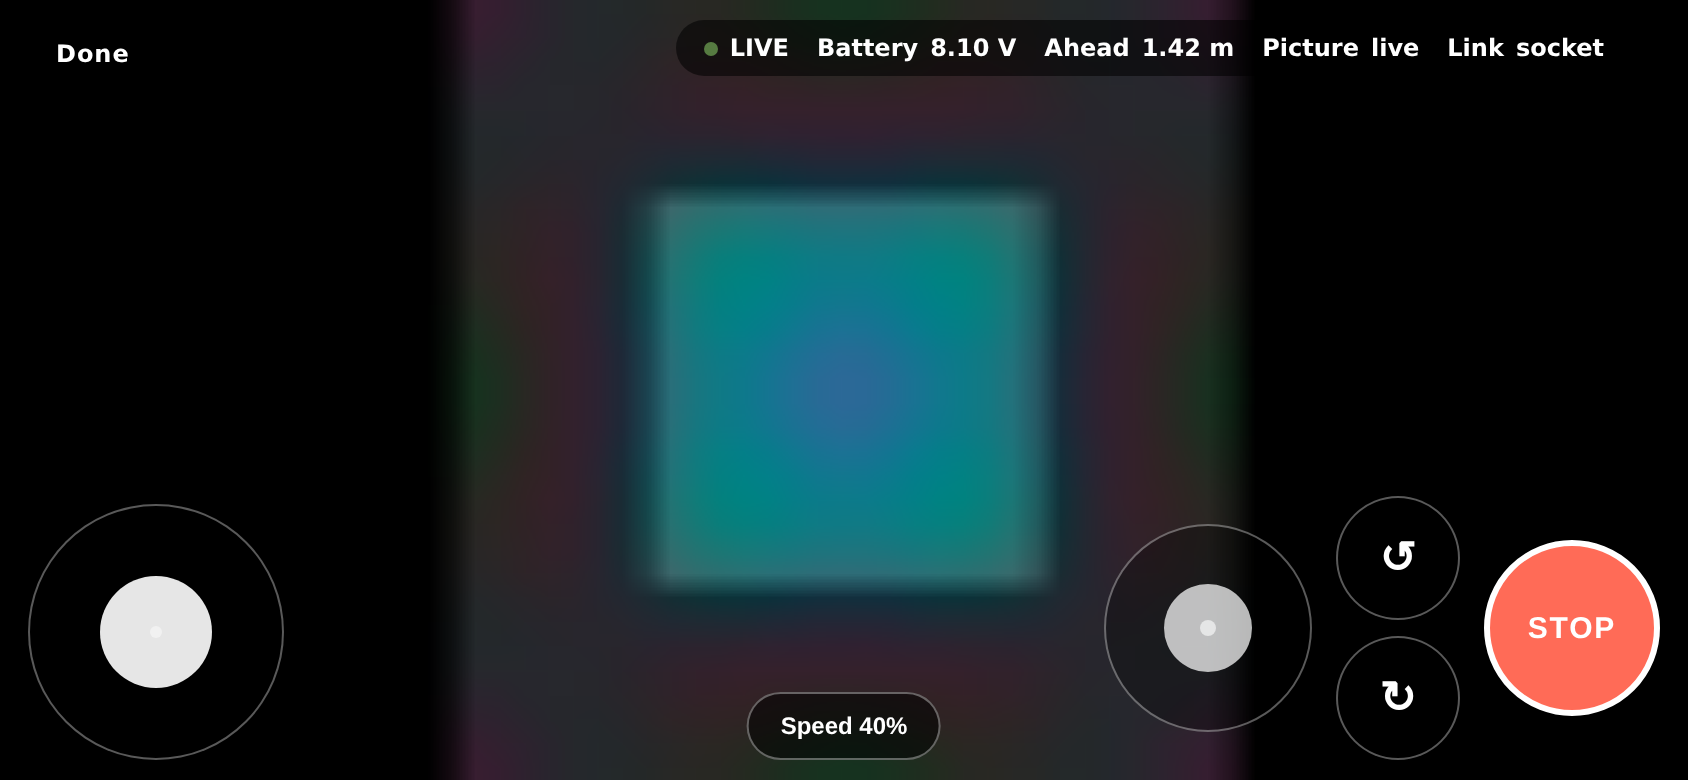
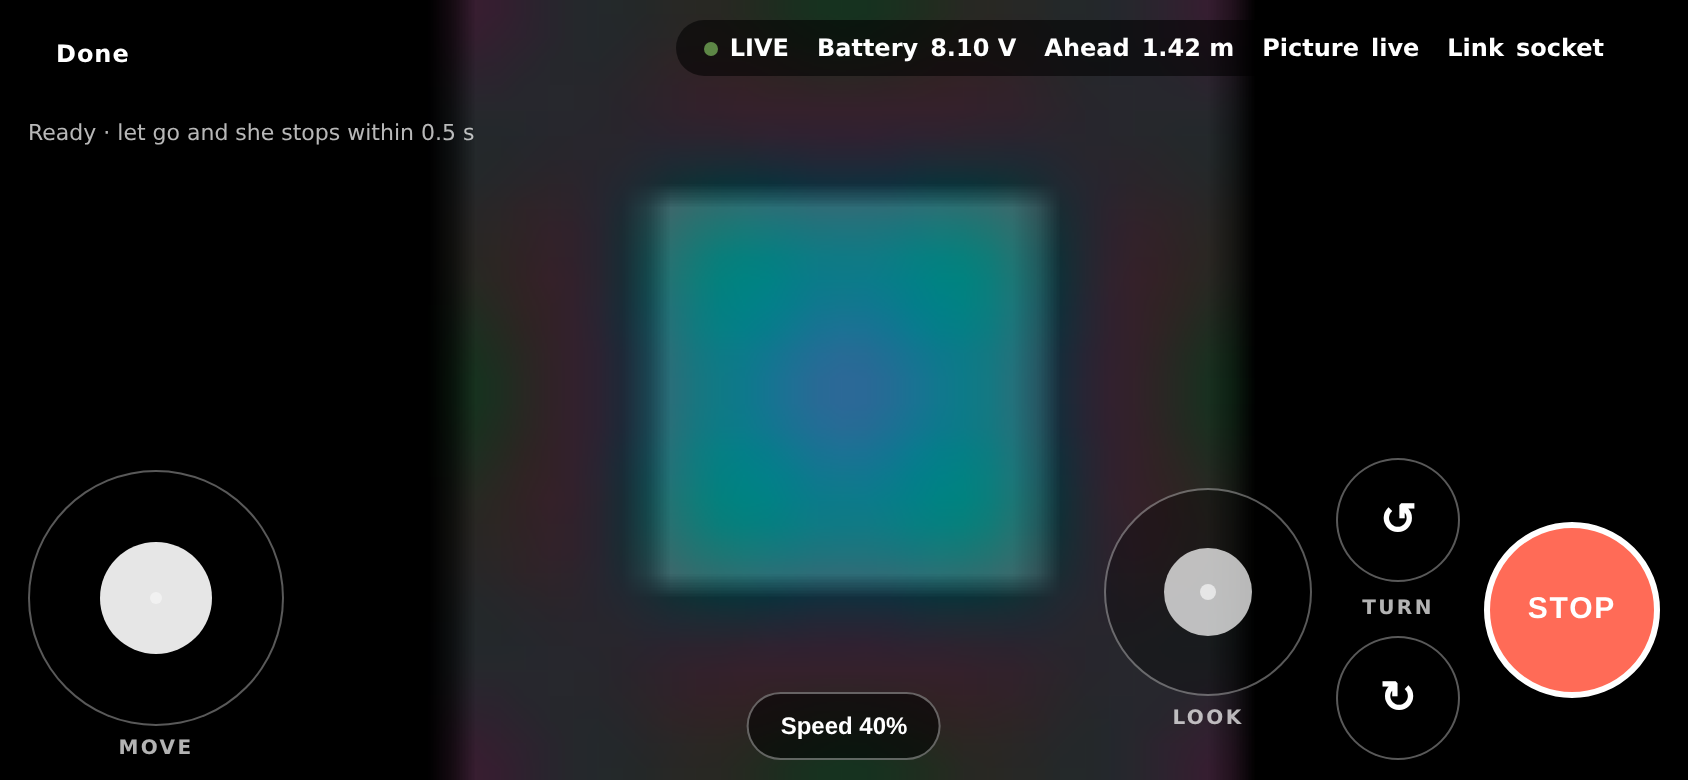
Drive mode says what its controls are, once, and what is true when nothing is wrong
Nothing on the drive page explained itself. That the right stick stays
where it is put and double-tap levels it, that the round buttons are the
turn, that Escape stops -- all of it lived in aria-labels and source
comments, which is to say nowhere a second driver would look. And the
HUD line was blank until something failed, so "all good" and "not
connected yet" were the same empty space.

**A legend, the first time.** Four sentences over the controls, dismissed
by a tap anywhere, remembered in localStorage the way the theme is and
with the same rule: storage that throws is never a broken page. It errs
towards showing -- a legend that shows again is a nuisance, a driver who
never saw it is the problem. The Robot tab has the way back to it
(?legend=1). It sits inside `.drive`, so portrait never shows it, and
under the stop alarm's z-index, so it can never cover a STOP.

**A word under each control.** MOVE, LOOK, TURN, ten-pixel caps, quiet.
Chris asked for the second stick twice; the labels are how the second
person knows which thumb does what.

**The resting line.** "Ready · let go and she stops within 0.5 s". The
number is DRIVE_TTL_MS, rendered by the server as a fact to state and
never sent back: test_the_browser_never_chooses_the_ttl still holds. A
problem sentence replaces it rather than joining it, so the line is
always the one thing worth reading.

Also fixed on the way: the audit server's stub robot had `look()` where
[…]

diff --git a/src/kona_tracker/web/templates/drive.html b/src/kona_tracker/web/templates/drive.html
@@ -25,7 +25,21 @@
           aria-label="Stop {{ robot_name }} now">STOP</button>
 </div>
 
-<div class="drive" id="drive" data-interval="{{ drive_interval_ms }}">
+<div class="drive" id="drive" data-interval="{{ drive_interval_ms }}" data-ttl="{{ drive_ttl_ms }}">
+  {# The first time drive mode opens, and never again unless asked (the Robot
+     tab has a link): four sentences a second driver needs and could not
+     otherwise learn short of reading aria-labels. Tapping anywhere on it
+     starts driving; it is inside `.drive` so portrait never shows it, and
+     under the stop alarm's z-index so it can never cover a STOP. #}
+  <div class="drive-legend" id="legend" hidden role="dialog" aria-label="How to drive {{ robot_name }}">
+    <div class="drive-legend-card">
+      <p><b>Left stick</b> moves her. Let go and she stops.</p>
+      <p><b>Right stick</b> aims the camera and stays where you point it. Double-tap it to level.</p>
+      <p><b>The two round buttons</b> turn her on the spot.</p>
+      <p><b>STOP</b> is STOP. On a keyboard, Escape is too.</p>
+      <p class="drive-legend-go">Tap anywhere to start</p>
+    </div>
+  </div>
   {# poll.js owns the picture and needs these four ids; the caption doubles
      as the camera's own line in the telemetry strip. #}
   <figure class="cam">
@@ -60,8 +74,11 @@
     <div class="drive-pads">
       {# Holonomic: this robot strafes. Sideways on the stick is a genuine
          sideways move, not a turn -- turning is the two buttons. #}
-      <div class="stick" id="stick" role="application" aria-label="Drive {{ robot_name }}: push to move, let go to stop">
-        <div class="knob" id="knob"></div>
+      <div class="pad">
+        <div class="stick" id="stick" role="application" aria-label="Drive {{ robot_name }}: push to move, let go to stop">
+          <div class="knob" id="knob"></div>
+        </div>
+        <span class="pad-label" aria-hidden="true">Move</span>
       </div>
       <div class="drive-right">
         {# The second stick, which is what Chris asked for twice: left thumb
@@ -77,12 +94,16 @@
            stick's sideways axis is a genuine strafe, so there is no spare
            axis for turning, and a button press is unambiguous where a stick
            corner is not. #}
-        <div class="stick look" id="look" role="application"
-             aria-label="Look around: drag to aim the camera, double-tap to level it">
-          <div class="knob" id="look-knob"></div>
+        <div class="pad">
+          <div class="stick look" id="look" role="application"
+               aria-label="Look around: drag to aim the camera, double-tap to level it">
+            <div class="knob" id="look-knob"></div>
+          </div>
+          <span class="pad-label" aria-hidden="true">Look</span>
         </div>
         <div class="drive-spins">
           <button class="spin" id="rot-left" type="button" aria-label="Rotate left">↺</button>
+          <span class="pad-label" aria-hidden="true">Turn</span>
           <button class="spin" id="rot-right" type="button" aria-label="Rotate right">↻</button>
         </div>
         <button class="estop" id="estop" type="button" aria-label="Stop the robot now">STOP</button>

diff --git a/src/kona_tracker/web/static/drive.js b/src/kona_tracker/web/static/drive.js
@@ -36,6 +36,12 @@
   var volts = document.getElementById('volts'), sonar = document.getElementById('sonar');
   var picture = document.getElementById('picture');
   var wireLabel = document.getElementById('wire');
+  var legend = document.getElementById('legend');
+
+  // The watchdog window, stated on the HUD as a fact about the robot and
+  // never sent back to it: this page does not choose its own dead-man
+  // switch. Both numbers come from robot/gateway.py through the template.
+  var TTL = parseInt(root.dataset.ttl, 10) || 0;
 
   // The send interval comes from the server so it cannot drift away from
   // the TTL it has to stay under. Both live in robot/gateway.py.
@@ -618,9 +624,18 @@
     if (data.sonar_usable === false) {
       words.push('The robot cannot read its distance sensor, so the obstacle guard is off.');
     }
-    note.textContent = words.join(' ');
-    note.hidden = words.length === 0;
-    note.className = 'drive-note';
+    if (words.length) {
+      note.textContent = words.join(' ');
+      note.className = 'drive-note';
+    } else {
+      // Nothing wrong is worth a line too. Before this the HUD was blank
+      // until something failed, so a second driver had no way to tell "all
+      // good" from "not connected yet". The one fact worth stating is the
+      // dead-man window, because it is the thing that makes letting go safe.
+      note.textContent = 'Ready' + (TTL ? ' \u00b7 let go and she stops within ' + (TTL / 1000) + ' s' : '');
+      note.className = 'drive-note calm';
+    }
+    note.hidden = false;
 
     allow(!data.low_battery && !data.demo, 'refused');
   }
@@ -676,6 +691,32 @@
       lost('No answer from the robot for a few seconds.');
     }
   }, SILENT_MS);
+
+  // -- the first-drive legend --------------------------------------------
+  // Shown the first time this page opens on a phone, and never again unless
+  // the Robot tab's "Show me the controls again" link asks (?legend=1). The
+  // choice lives in localStorage like the theme does, with the same rule:
+  // storage that throws (private browsing, blocked site data) is never worth
+  // a broken page, and on the side of saying too much -- a legend that shows
+  // again is a nuisance, a driver who never saw it is the problem.
+  var SEEN = 'kona-drive-seen';
+  function legendSeen() {
+    try { return window.localStorage.getItem(SEEN) === '1'; } catch (e) { return false; }
+  }
+  function legendDismissed() {
+    try { window.localStorage.setItem(SEEN, '1'); } catch (e) { /* lasts until the page closes */ }
+  }
+  function askedForLegend() {
+    var search = (window.location && window.location.search) || '';
+    return /(^\?|&)legend=1(&|$)/.test(search);
+  }
+  if (legend) {
+    if (askedForLegend() || !legendSeen()) { legend.hidden = false; }
+    legend.addEventListener('click', function () {
+      legend.hidden = true;
+      legendDismissed();
+    });
+  }
 
   // Opened last, once everything it can call into exists. Failing to open
   // costs nothing: every command falls back to the HTTP path above.

diff --git a/src/kona_tracker/web/static/app.css b/src/kona_tracker/web/static/app.css
@@ -792,6 +792,7 @@ body.activity-page { overscroll-behavior-y: contain; }
 .robot-page .drive-link { display: flex; align-items: center; justify-content: space-between;
   gap: 12px; margin: 18px 0 0; padding: 16px; border: 1px solid var(--line); border-radius: 18px;
   background: var(--bg2); color: var(--ink); text-decoration: none; font-weight: 600; }
+.robot-page .drive-again { display: inline-block; min-height: 44px; padding: 12px 0 0; font-size: 13px; color: var(--ink2); }
 .robot-page .drive-link small { display: block; margin-top: 3px; color: var(--ink2);
   font-size: 12px; font-weight: 400; }
 
@@ -847,6 +848,26 @@ body.activity-page { overscroll-behavior-y: contain; }
 .drive-note { margin: 8px 0 0; padding: 7px 12px; border-radius: 12px; max-width: 46ch;
   background: rgba(0,0,0,.55); color: #F0D9A8; font-size: 11px; line-height: 1.4; }
 .drive-note.gone { color: #FFB3A3; }
+/* The resting line: what is true when nothing is wrong. Quieter than a
+   problem sentence, which replaces it. */
+.drive-note.calm { color: rgba(255,255,255,.72); background: transparent; padding-left: 0; }
+/* The first-drive legend. Under the stop alarm (z-index 30): it must never
+   sit on top of a STOP. Tapping anywhere on it dismisses it. */
+.drive-legend[hidden] { display: none; }
+.drive-legend { position: fixed; inset: 0; z-index: 20; display: grid; place-content: center;
+                padding: 16px; background: rgba(0,0,0,.55); }
+.drive-legend-card { max-width: 44ch; padding: 16px 20px; border-radius: 16px;
+                     background: rgba(18,22,17,.92); color: #fff; font-size: 14px; line-height: 1.45; }
+.drive-legend-card p { margin: 0 0 8px; }
+.drive-legend-card b { font-weight: 700; }
+.drive-legend-go { margin-top: 12px; color: rgba(255,255,255,.7); font-size: 12px;
+                   text-transform: uppercase; letter-spacing: .08em; }
+/* A word under each control, so a second driver does not have to guess
+   which stick moves and which one looks. Quiet: the sticks are the point. */
+.pad { display: flex; flex-direction: column; align-items: center; gap: 6px; }
+.pad-label { font-size: 10px; font-weight: 600; letter-spacing: .12em; text-transform: uppercase;
+             color: rgba(255,255,255,.7); }
+.drive-spins .pad-label { text-align: center; }
 /* A stop that did not land is the most dangerous state this app has, so it
    is the loudest thing on the screen and it does not wait to be dismissed.
    It is fixed to the viewport rather than laid out inside `.drive-hud`,

diff --git a/scripts/audit_shots.js b/scripts/audit_shots.js
@@ -99,6 +99,12 @@ async function stubTiles(context) {
     await lp.waitForLoadState('domcontentloaded');
     await lp.goto(BASE + '/drive', { waitUntil: 'domcontentloaded' });
     await lp.waitForTimeout(2000);
+    // A fresh context has never driven, so the first-drive legend is up.
+    // Both states are worth a reviewer's eyes: the legend, and the controls
+    // it was covering.
+    await lp.screenshot({ path: path.join(OUT, `drive-first-visit-${scheme}.png`) });
+    await lp.click('#legend');
+    await lp.waitForTimeout(300);
     await lp.screenshot({ path: path.join(OUT, `drive-landscape-${scheme}.png`) });
     await lp.setViewportSize(PHONE);
     await lp.waitForTimeout(500);

diff --git a/src/kona_tracker/web/templates/robot.html b/src/kona_tracker/web/templates/robot.html
@@ -25,6 +25,9 @@
   <span>Drive {{ robot_name }}<small>Turn your phone sideways. Let go and it stops.</small></span>
   <span class="go" aria-hidden="true">{% include "_chevron.svg" %}</span>
 </a>
+{# The legend shows itself once. This is the way back to it, for the second
+   driver or the first one a month later. #}
+<a class="drive-again" href="/drive?legend=1">Show me the controls again</a>
 {# The two front lights. Here rather than on the Drive page for one concrete
    reason: the gateway writes them straight over I2C (the ultrasonic module at
    0x77) instead of through the RPC server that owns the motors, so they are

diff --git a/tests/test_robot_drive.py b/tests/test_robot_drive.py
@@ -468,3 +468,21 @@ def test_the_portrait_prompt_is_still_the_only_thing_portrait_normally_shows():
     html = signed_in(make()).get("/drive").text
     alarm = html[html.index('id="shout"') - 200 : html.index('id="shout"') + 40]
     assert "hidden" in alarm, "the stop alarm no longer starts hidden"
+
+
+def test_the_drive_page_says_what_each_control_is_and_offers_the_legend(drivable):
+    """A second driver could not learn, short of reading aria-labels, that
+    the right stick stays where it is put, that double-tap levels it, that
+    the round buttons turn, or that Escape stops. The legend says so once;
+    the labels under the sticks say which is which every time; the Robot
+    tab has the way back to the legend."""
+    client, _ = drivable
+    page = client.get("/drive").text
+    assert 'id="legend"' in page and "Double-tap it to level" in page and "Escape" in page
+    for label in ("Move", "Look", "Turn"):
+        assert f'<span class="pad-label" aria-hidden="true">{label}</span>' in page
+    # The dead-man window is stated to the page as a number to say, and the
+    # page never sends one back (test_the_browser_never_chooses_the_ttl).
+    assert 'data-ttl="500"' in page
+    robot = client.get("/robot").text
+    assert 'href="/drive?legend=1"' in robot and "Show me the controls again" in robot

diff --git a/src/kona_tracker/web/routes/robot.py b/src/kona_tracker/web/routes/robot.py
@@ -25,6 +25,7 @@ from starlette.concurrency import run_in_threadpool
 from kona_tracker.robot.gateway import (
     DRIVE_HOLD_MS,
     DRIVE_INTERVAL_MS,
+    DRIVE_TTL_MS,
     RobotError,
     RobotFault,
     RobotGateway,
@@ -125,6 +126,10 @@ def make_robot_router(deps: AppDeps) -> APIRouter:
                 "tab": None,
                 "robot_name": settings.robot_name,
                 "drive_interval_ms": DRIVE_INTERVAL_MS,
+                # Stated on the HUD ("let go and it stops within 0.5 s"),
+                # never sent back: the page must not choose its own dead-man
+                # window, and does not -- test_the_browser_never_chooses_the_ttl.
+                "drive_ttl_ms": DRIVE_TTL_MS,
             },
         )
 

diff --git a/scripts/audit_server.py b/scripts/audit_server.py
@@ -290,7 +290,10 @@ class StubRobot:
     def stop(self):
         return {"ok": True}
 
-    def look(self, pan_deg=None, tilt_deg=None, move_ms=None):
+    # `look_at`, which is what the gateway client calls. This was `look`, so
+    # /robot/look answered 502 against the audit server and nobody noticed,
+    # because no screenshot moves the camera.
+    def look_at(self, pan_deg=None, tilt_deg=None, move_ms=None):
         return {"ok": True}
 
     # The lights, remembering what they were told -- the real gateway does,
